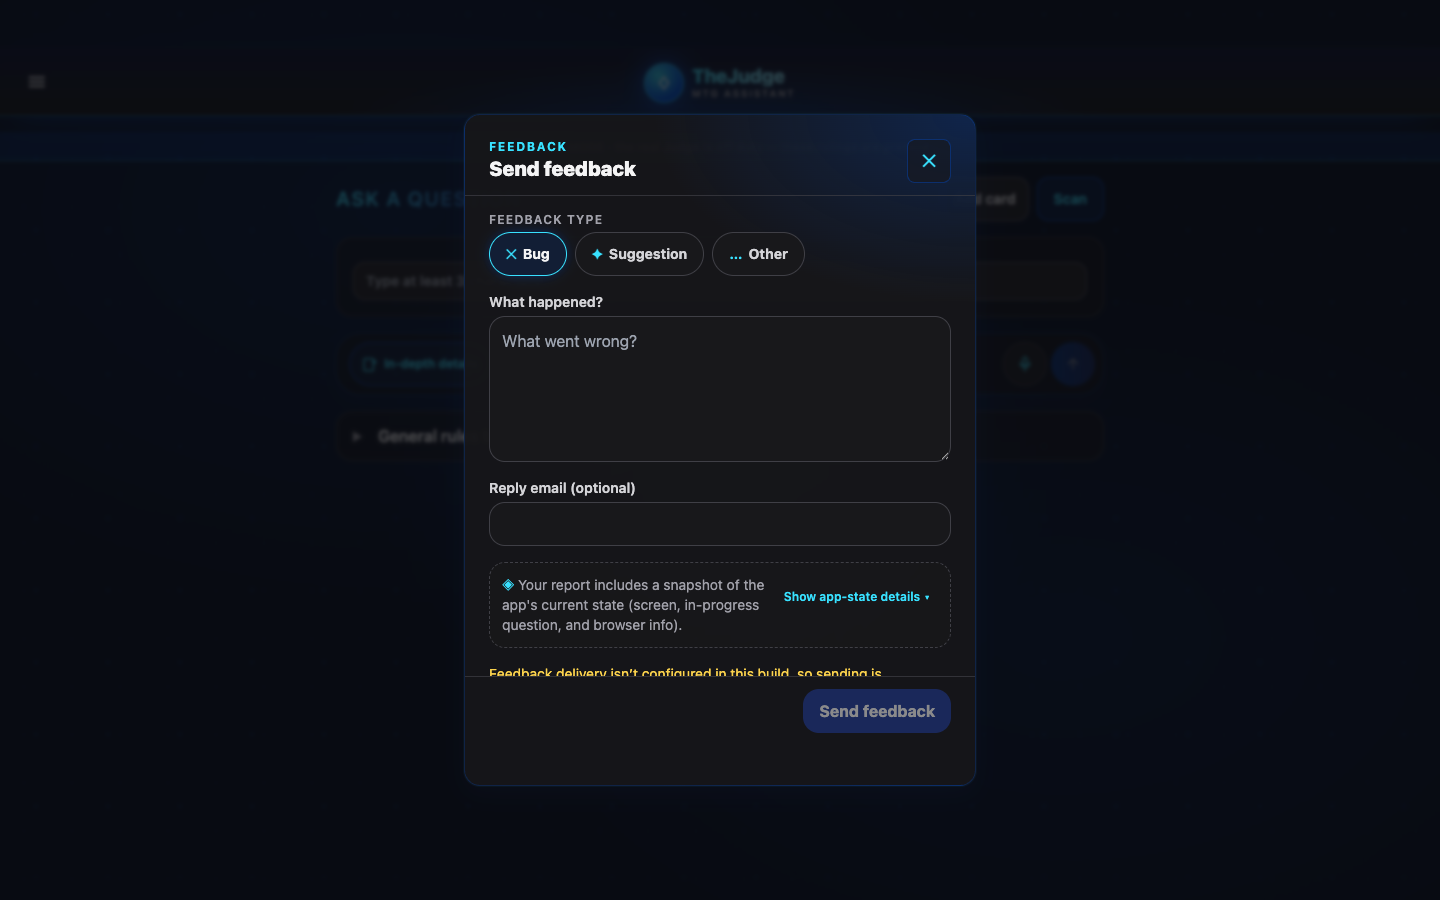
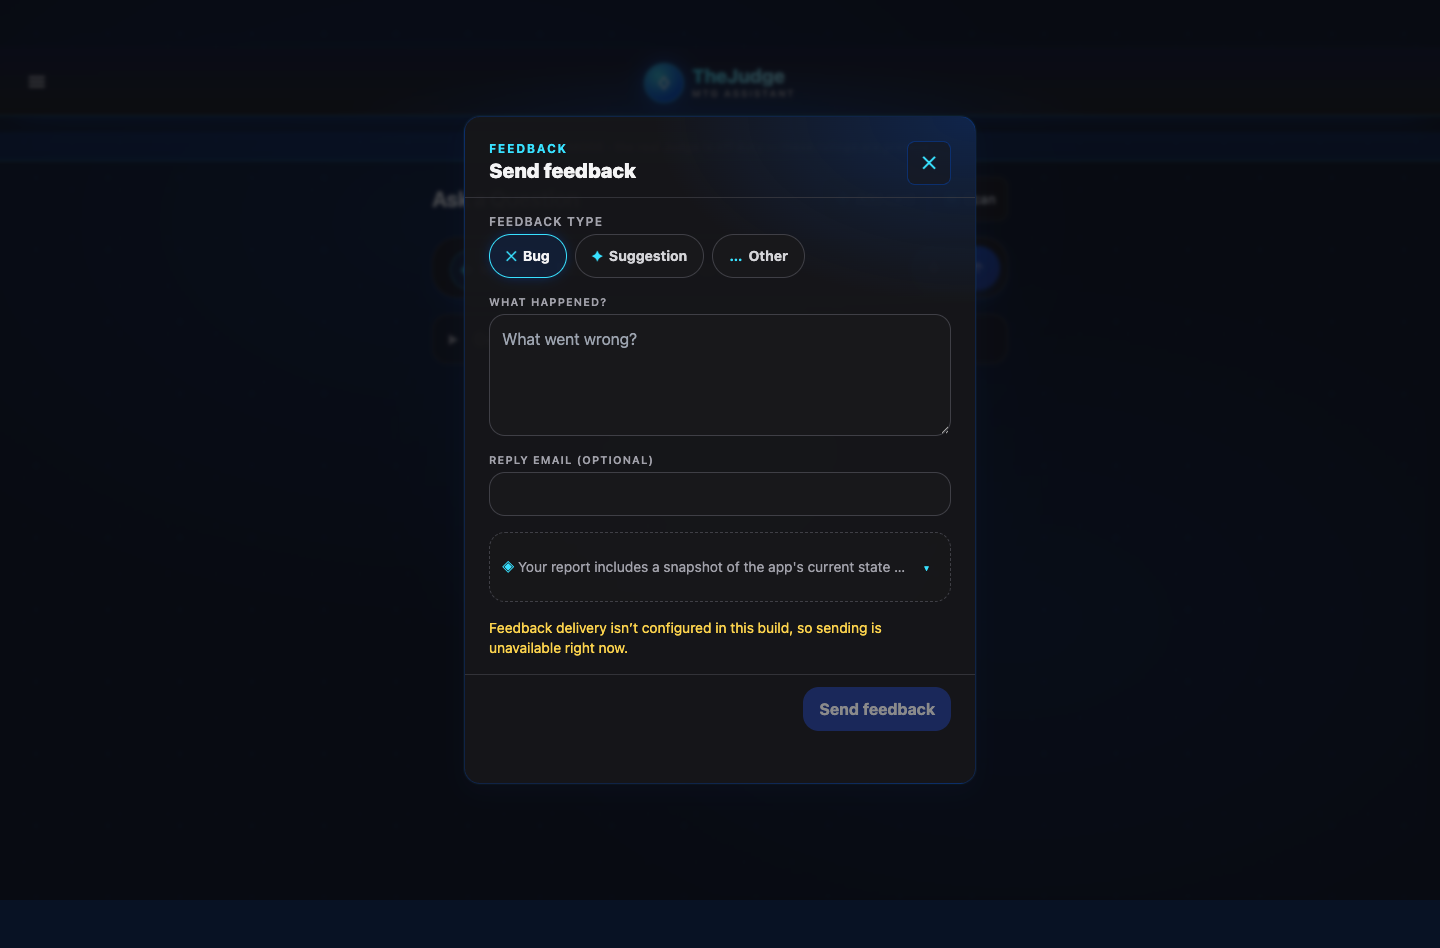
fix(ui-reimagining-build): review 1 — slice L Menu z-index, Theme band arrows, Send feedback eyebrows
Finding 2 (Critical): .portal-shell-bounds had z-index:auto, so the Menu
drawer/backdrop portaled into it lost to .app-header's z-index:20 in the
header's own stacking context — Ask a Question was unreachable and History
was clipped in half with the tray open. Gave .portal-shell-bounds z-index:21.
Same finding's Theme band arrows: the hidden attribute did nothing (Tailwind's
grid utility outranks preflight's [hidden] at the same specificity), so the
arrows always took space, shrinking the track below six cells — fixed with an
inline display style plus the mockup's 2px gap.

Finding 6 (Important): Send feedback's "What happened?"/"Reply email" labels
take the uppercase-eyebrow style already used elsewhere; the snapshot
disclosure collapses to one truncated line with a bare chevron toggle (same
accessible name, now sr-only), making the sheet content-sized instead of a
tall block.

diff --git a/apps/frontend/src/components/feedback/FeedbackModal.tsx b/apps/frontend/src/components/feedback/FeedbackModal.tsx
@@ -159,7 +159,12 @@ function FeedbackDialog({ onClose, getFeedbackContext, formspreeId }: FeedbackDi
           </div>
 
           <div className="flex flex-col gap-1">
-            <label htmlFor={messageId} className="text-sm font-semibold text-zinc-300">
+            {/* Look-matching pass (slice L, review 1 fix — finding 6): uppercase eyebrow
+                label (shell.css's `.fb-field .t`), same accessible text as before. */}
+            <label
+              htmlFor={messageId}
+              className="text-[0.68rem] font-semibold uppercase tracking-[0.1em] text-zinc-400"
+            >
               What happened?
             </label>
             <textarea
@@ -167,7 +172,7 @@ function FeedbackDialog({ onClose, getFeedbackContext, formspreeId }: FeedbackDi
               value={form.message}
               onChange={(event) => form.setMessage(event.target.value)}
               placeholder={MESSAGE_HINT[form.category]}
-              rows={5}
+              rows={4}
               required
               aria-required="true"
               aria-invalid={form.messageError !== null}
@@ -182,7 +187,12 @@ function FeedbackDialog({ onClose, getFeedbackContext, formspreeId }: FeedbackDi
           </div>
 
           <div className="flex flex-col gap-1">
-            <label htmlFor={emailId} className="text-sm font-semibold text-zinc-300">
+            {/* Look-matching pass (slice L, review 1 fix — finding 6): uppercase eyebrow
+                label (shell.css's `.fb-field .t`), same accessible text as before. */}
+            <label
+              htmlFor={emailId}
+              className="text-[0.68rem] font-semibold uppercase tracking-[0.1em] text-zinc-400"
+            >
               Reply email (optional)
             </label>
             <input
@@ -205,15 +215,16 @@ function FeedbackDialog({ onClose, getFeedbackContext, formspreeId }: FeedbackDi
             data-testid="feedback-snapshot-row"
             className="rounded-2xl border border-dashed border-zinc-700 bg-zinc-900/40 p-3"
           >
-            {/* Look-matching pass (slice L): one dashed row (shell.css:716-720's
-                `.fb-snap-row`) — the disclosure line and the toggle sit side by
-                side instead of stacked on their own lines. The toggle keeps its
-                existing accessible name exactly ("Show/Hide app-state details");
-                only its visual chrome shrinks to a trailing chevron-style control
-                and its own text becomes the row's own (invisible-label) click
-                target rather than a separate full-width button below the text. */}
-            <div className="flex items-start justify-between gap-2">
-              <p className="text-sm text-zinc-400">
+            {/* Look-matching pass (slice L, review 1 fix — finding 6): one true
+                single-line row (shell.css:721's `.fb-snap-row`) — the disclosure
+                text truncates to one line (`min-w-0 truncate`, the flex item needs
+                `min-w-0` for `truncate` to shrink below its content width) and the
+                toggle shrinks to a bare chevron, matching the mockup's "◈ … ▾"
+                row. The toggle keeps its existing accessible name exactly
+                ("Show/Hide app-state details") as a visually-hidden (`sr-only`)
+                span — no behaviour change, only the painted row. */}
+            <div className="flex items-center justify-between gap-2">
+              <p className="min-w-0 flex-1 truncate text-sm text-zinc-400">
                 <span aria-hidden="true" className="text-accent-soft">◈</span> {DISCLOSURE_LINE}
               </p>
               <button
@@ -221,9 +232,9 @@ function FeedbackDialog({ onClose, getFeedbackContext, formspreeId }: FeedbackDi
                 aria-expanded={isSummaryExpanded}
                 aria-controls={summaryId}
                 onClick={() => setIsSummaryExpanded((expanded) => !expanded)}
-                className="motion-focus flex min-h-[2.75rem] shrink-0 items-center gap-1 rounded-lg px-2 text-xs font-semibold text-accent-soft hover:bg-zinc-800"
+                className="motion-focus flex min-h-[2.75rem] shrink-0 items-center justify-center rounded-lg px-2 text-accent-soft hover:bg-zinc-800"
               >
-                <span className="whitespace-nowrap">
+                <span className="sr-only">
                   {isSummaryExpanded ? "Hide app-state details" : "Show app-state details"}
                 </span>
                 <span aria-hidden="true" className={isSummaryExpanded ? "rotate-180 transition" : "transition"}>

diff --git a/apps/frontend/src/components/portal/ThemeSection.tsx b/apps/frontend/src/components/portal/ThemeSection.tsx
@@ -174,6 +174,17 @@ export function ThemeSection({
           aria-label="Scroll Theme band left"
           onClick={() => nudge(-1)}
           hidden={!canScrollLeft}
+          // Look-matching pass (slice L, review 1 fix — finding 2): the `hidden`
+          // attribute alone does not hide this element — Tailwind's `grid`
+          // utility (an author rule) sits later in the generated stylesheet
+          // than preflight's `[hidden] { display: none }` at the same
+          // specificity, so it wins and the arrow stayed painted (and sized)
+          // even when there was nothing to scroll, stealing width from the
+          // track and causing a real overflow (the clipped sixth cell the
+          // reviewer saw). The inline `style` always wins over any class, so
+          // it hides the box for real while the `hidden` attribute stays for
+          // the existing "stays mounted, just inert" test contract.
+          style={{ display: canScrollLeft ? "grid" : "none" }}
           className="motion-focus grid h-6 w-5 shrink-0 place-items-center text-zinc-400 hover:text-zinc-200"
         >
           <span aria-hidden="true">‹</span>
@@ -185,8 +196,12 @@ export function ThemeSection({
           onScroll={updateArrowState}
           // Look-matching pass (slice L): the mockup's pill container
           // (`theme-band-track`, shell.css:571-592's `.theme-orbs`) — the
-          // scroll/snap/gap mechanics are unchanged.
-          className="theme-band-track flex flex-1 snap-x gap-1 overflow-x-auto scroll-smooth"
+          // scroll/snap mechanics are unchanged; review 1 fix (finding 2)
+          // tightens the gap from 4px to the mockup's 2px
+          // (`shell.css:571-592`'s `.theme-orbs` gap) now that the arrows
+          // above/below genuinely stop taking space when hidden, so all six
+          // cells fit the 320px tray with room to spare.
+          className="theme-band-track flex flex-1 snap-x gap-[2px] overflow-x-auto scroll-smooth"
         >
           {PALETTES.map((palette) => (
             <ThemeBandCell
@@ -202,6 +217,7 @@ export function ThemeSection({
           aria-label="Scroll Theme band right"
           onClick={() => nudge(1)}
           hidden={!canScrollRight}
+          style={{ display: canScrollRight ? "grid" : "none" }}
           className="motion-focus grid h-6 w-5 shrink-0 place-items-center text-zinc-400 hover:text-zinc-200"
         >
           <span aria-hidden="true">›</span>

diff --git a/PRD/work/ui-reimagining-build/slice-l.evidence.md b/PRD/work/ui-reimagining-build/slice-l.evidence.md
@@ -133,3 +133,47 @@ loosened, to assert the new look in place of the retired one) plus a new
 - The Menu tray's canvas-drawn foot flair (`ambience.js`'s falling shapes) —
   explicitly out of scope per `DESIGN-BRIEF.md`'s non-goal A1 (script/canvas
   animation); the static CSS glow it sits over is built.
+
+### Review 1 fix (2026-10-02)
+
+Review loop 1 (`REVIEW-1.md`) returned two findings against this slice.
+
+- Finding 2 (Critical, L8/L12): with the Menu open, `.app-header`
+  (`z-index: 20`) painted over `.portal-menu-drawer` (`z-index: 2`), because
+  `.portal-shell-bounds` — the clip box the drawer and its backdrop portal
+  into — had `z-index: auto`, so its contents were compared against the
+  header in the header's own stacking context and always lost. Fixed by
+  giving `.portal-shell-bounds` `z-index: 21` (`apps/frontend/src/index.css`),
+  one above the header, so the whole portaled subtree now paints on top.
+  Verified live: "Ask a Question" and "Question History" are fully visible
+  and tappable with the tray open at both 390×844 and 1440×900 (recaptured
+  `l/chrome-menu-build-{390x844,1440x900}.png`).
+  - Same finding also named the Theme band's ‹ › arrows and a clipped sixth
+    cell inside the 320px tray. Root cause: the `hidden` attribute on the
+    scroll-arrow buttons (`ThemeSection.tsx`) did nothing, because Tailwind's
+    `grid` utility class (an author rule) sits later in the generated
+    stylesheet than preflight's `[hidden] { display: none }` at the same
+    specificity, so the arrows stayed painted and sized even with nothing to
+    scroll — stealing width from the track and causing the real overflow the
+    reviewer saw. Fixed with an inline `style={{ display: ... }}` on both
+    arrows (inline styles always win), plus tightening the track's gap from
+    4px to the mockup's 2px (`gap-[2px]`) now that the arrows genuinely stop
+    taking space when hidden. Verified live: all six cells fit with no
+    arrows at 320–390px and at 1440px.
+- Finding 6 (Important, L12): Send feedback still had sentence-case labels, a
+  tall two-part snapshot block with a separate "Show/Hide app-state details"
+  button, and started high on the screen. Fixed in `FeedbackModal.tsx`:
+  "What happened?" and "Reply email (optional)" now use the uppercase-eyebrow
+  style `Feedback type` already had; the snapshot row is now one truncated
+  line (`min-w-0 truncate`) with the toggle shrunk to a bare chevron (its
+  "Show/Hide app-state details" accessible name kept as an `sr-only` span, so
+  no behaviour or test-facing name changed); the textarea dropped from 5 to 4
+  rows to match the mockup. The sheet is now visibly content-sized at both
+  widths (recaptured `l/chrome-feedback-build-{390x844,1440x900}.png`) —
+  centred and compact on desktop, starting well down the screen on phone,
+  rather than the prior tall block.
+
+Both findings closed. `FollowUpComposer.test.tsx`-style scrutiny doesn't apply
+here, but `ThemeSection.test.tsx` and `FeedbackModal.test.tsx` stay green
+unchanged (same accessible names, same behaviour) — see `npm --workspace
+apps/frontend run test` in the node's terminal report.
